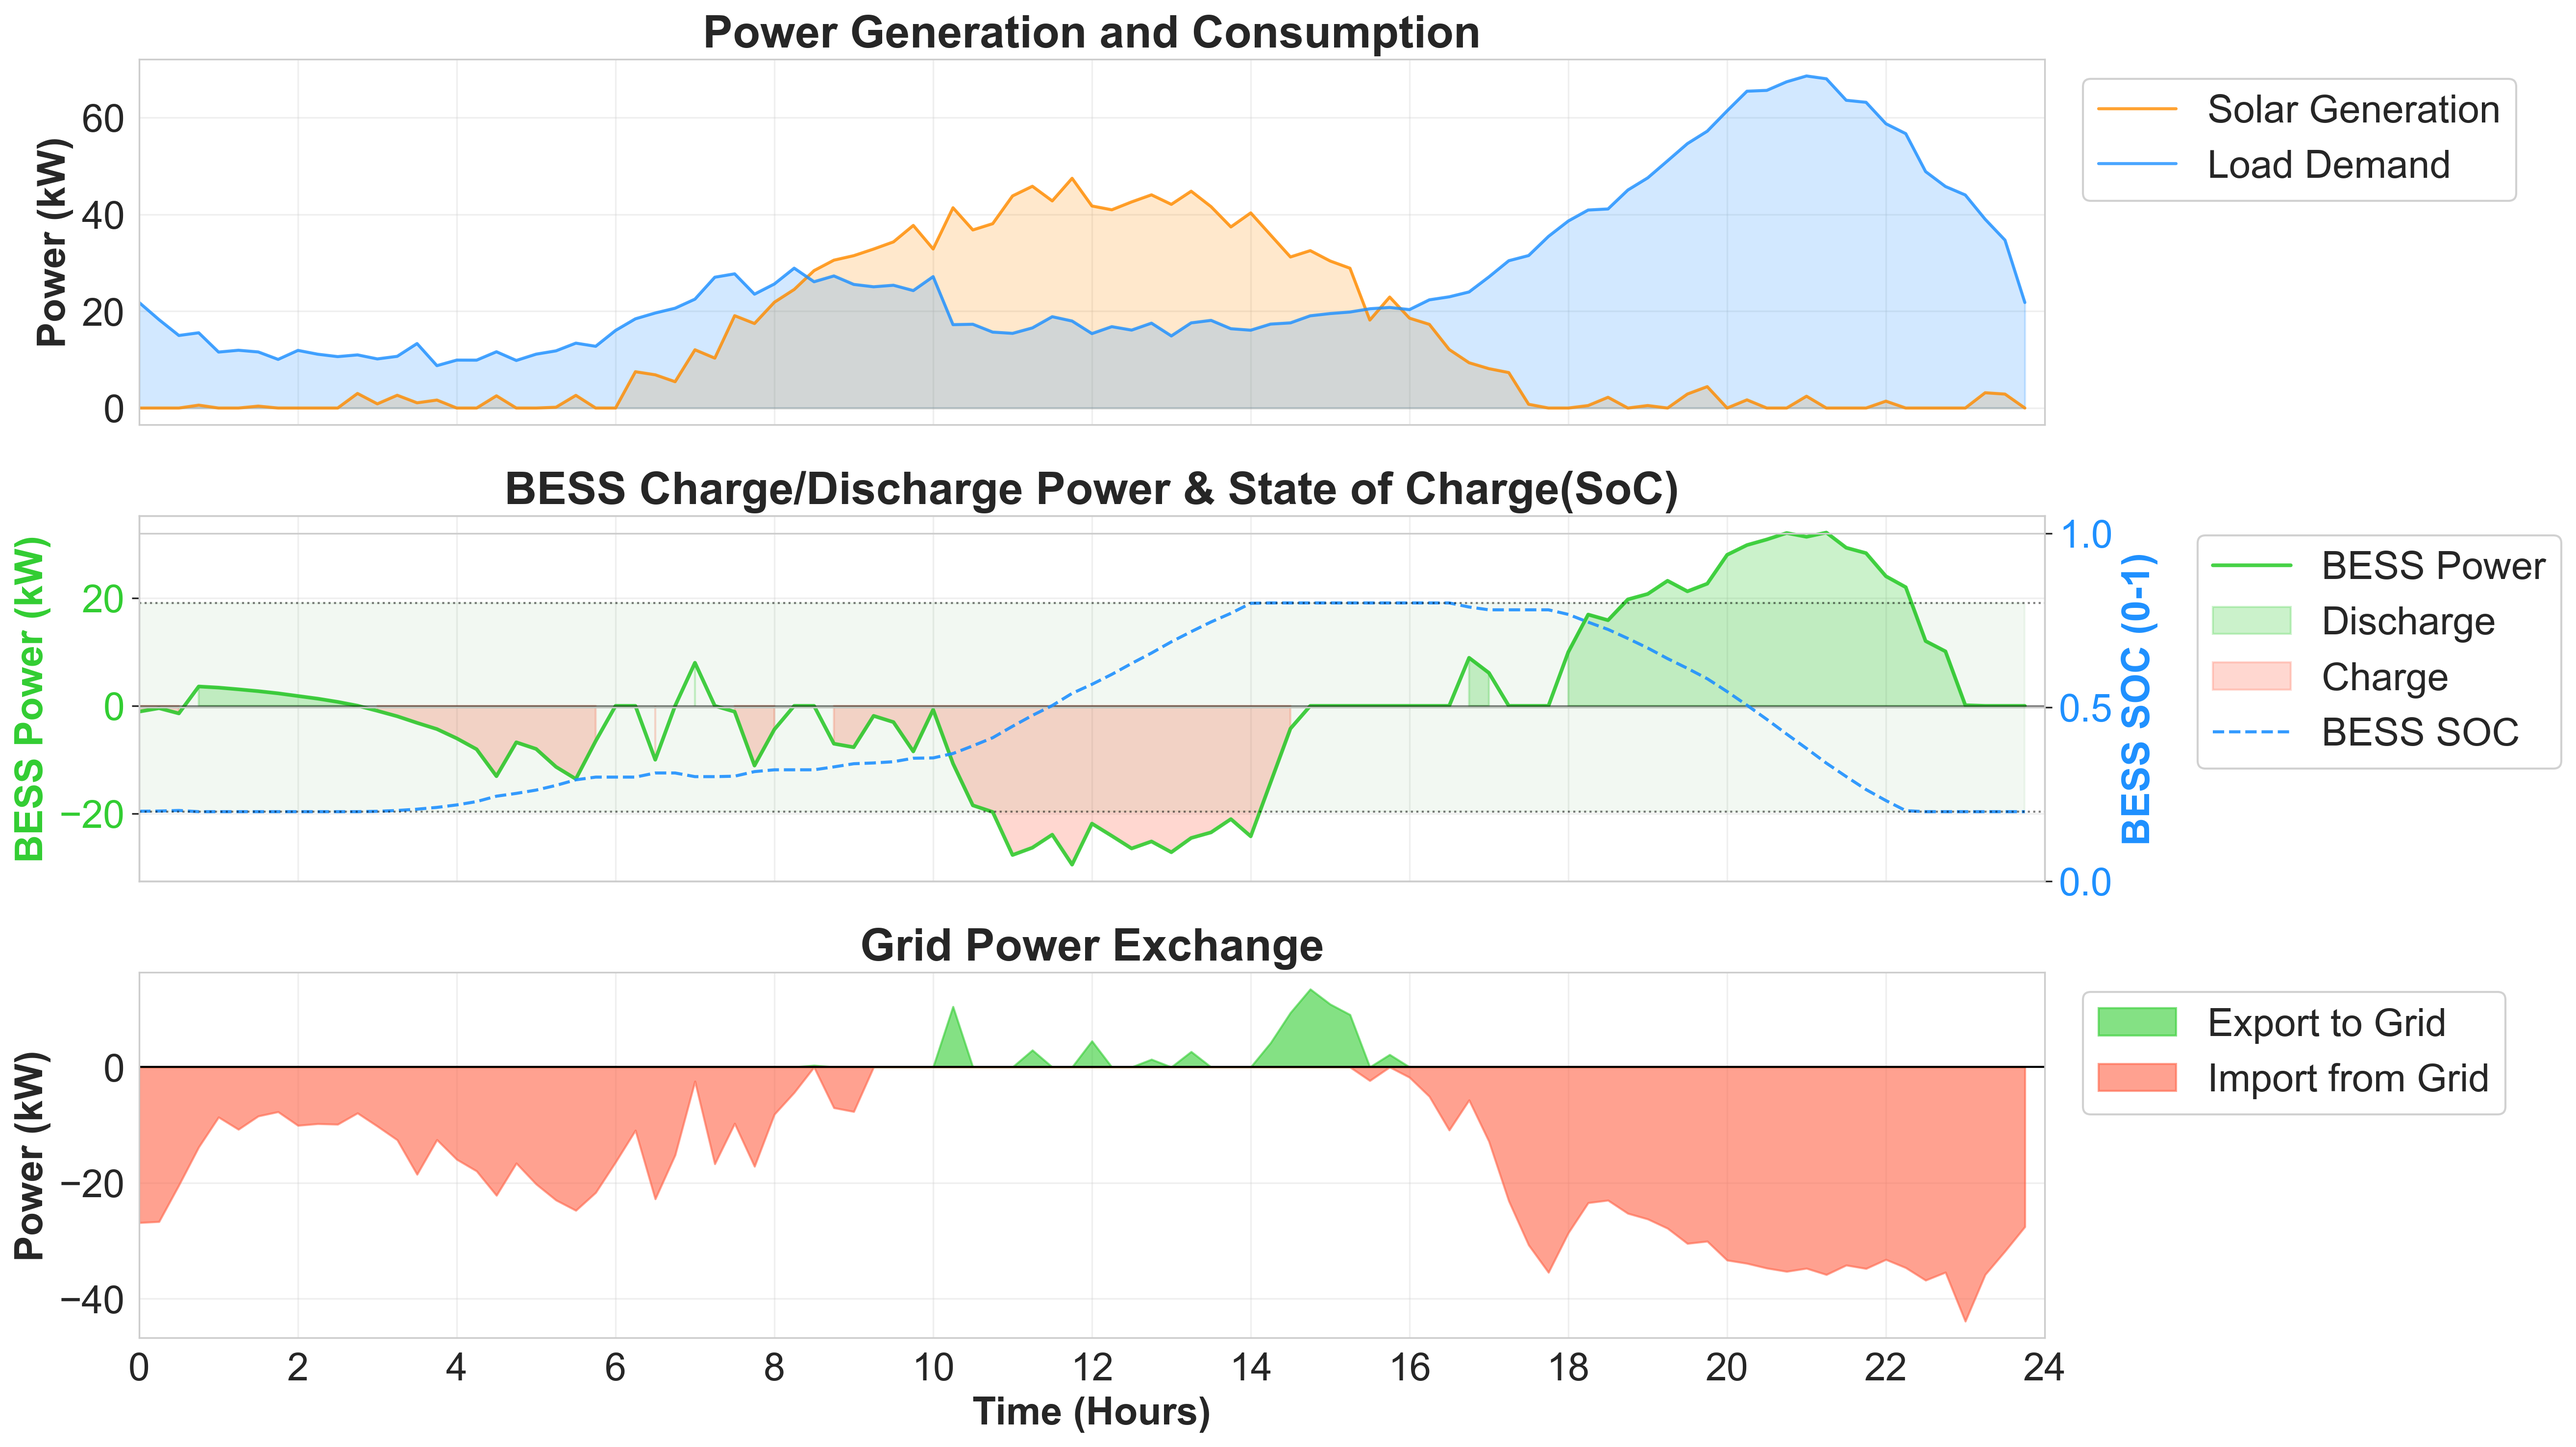
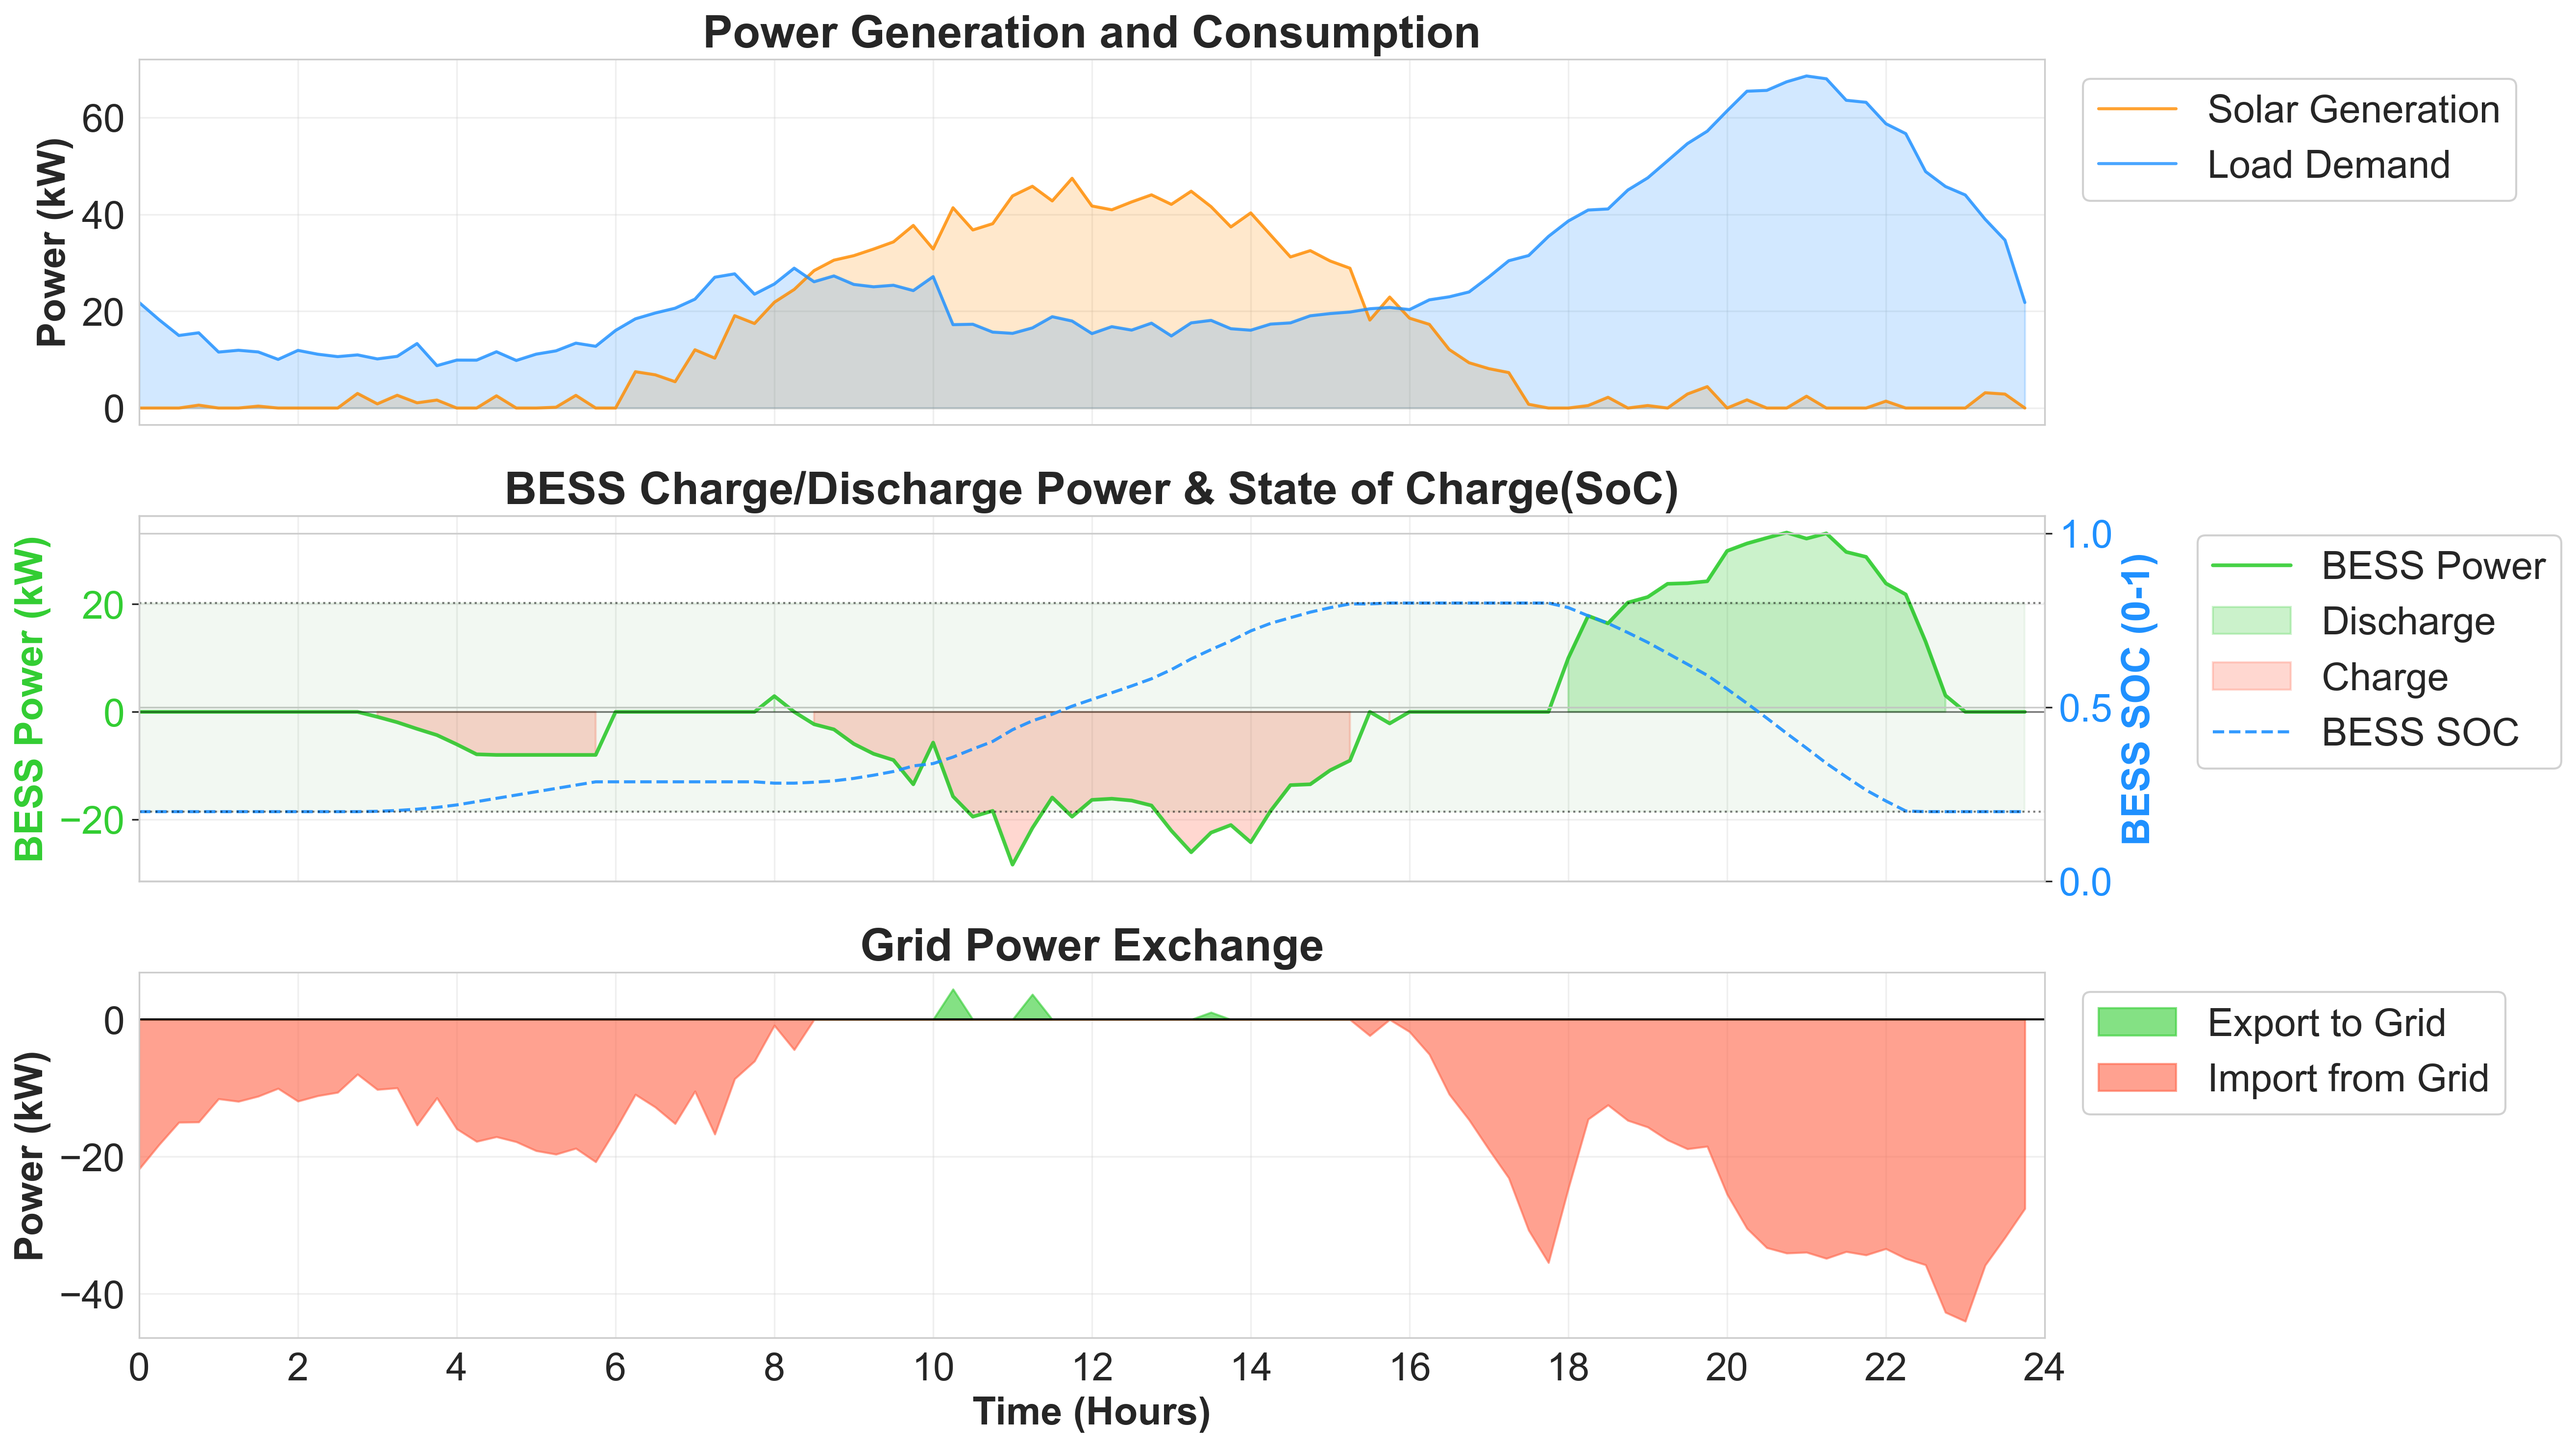
good

diff --git a/RL_agent/vpp_env.py b/RL_agent/vpp_env.py
@@ -97,6 +97,11 @@ class UrbanVPPEnv(gym.Env):
 
     # =================================================================
 
+    # SoC floor/ceiling are stored as float32; comparing a float32 value
+    # against a bare float64 literal (e.g. "<= 0.2") can silently fail to
+    # trigger due to rounding. This tolerance absorbs that gap.
+    SOC_EPS = 1e-4
+
     def __init__(self, data_path="./data", scenario_name=None, start_index=None, verbose=False):
         super(UrbanVPPEnv, self).__init__()
 
@@ -290,7 +295,9 @@ class UrbanVPPEnv(gym.Env):
         return min(p_max, headroom_kwh / (0.25 * 0.95))
 
     def _max_discharge_power_from_soc(self, soc, cap, p_max):
-        if soc <= 0.2:
+        # soc is stored as float32; float32(0.2) is fractionally above the
+        # float64 literal 0.2, so a bare "<= 0.2"/"- 0.2" never floors out.
+        if soc <= 0.2 + self.SOC_EPS:
             return 0.0
         deliverable_kwh = (soc - 0.2) * cap * 0.95
         return min(p_max, deliverable_kwh / 0.25)
@@ -361,6 +368,14 @@ class UrbanVPPEnv(gym.Env):
             target = shaped_discharge / self.bess_power if self.bess_power > 0 else 0.0
             # SOFT: blend toward shaped target
             action_modified[bess_action_idx] = 0.7 * target + 0.3 * action[bess_action_idx]
+
+        # --- Home batteries: peak-hour discharge guidance (soft) ---
+        if 18 <= hour < 23 and net_demand > 0:
+            for hb_idx in range(len(self.home_batt_indices)):
+                if self.soc[hb_idx] > 0.2 + self.SOC_EPS:
+                    demand_share = min(1.0, net_demand / (len(self.home_batt_indices) * self.home_batt_power))
+                    target = demand_share
+                    action_modified[hb_idx] = 0.7 * target + 0.3 * action[hb_idx]
 
         # --- Home batteries: daytime solar charging guidance (soft) ---
         if 6 <= hour < 18 and net_solar_surplus > 0:
@@ -457,7 +472,12 @@ class UrbanVPPEnv(gym.Env):
             # -- Hard physical constraints (these stay hard) --
 
             # CONSTRAINT 1: SoC limits
-            if self.soc[i] <= 0.2 and desired_power > 0:
+            # NOTE: self.soc is float32, and float32(0.2) is fractionally
+            # above the float64 literal 0.2, so a bare "<= 0.2" never
+            # triggers at the floor — the battery could discharge forever
+            # while SoC reads as pinned at 0.2 (np.clip resets it every
+            # step). Use an epsilon tolerance so the floor actually holds.
+            if self.soc[i] <= 0.2 + self.SOC_EPS and desired_power > 0:
                 desired_power = 0.0
             if self.soc[i] >= 0.8 and desired_power < 0:
                 desired_power = 0.0
@@ -466,8 +486,8 @@ class UrbanVPPEnv(gym.Env):
             # BESS must be idle during this period — no charging or discharging
             if is_bess and 23 <= hour:
                 desired_power = 0.0
-            # Home batteries: still block charging only
-            elif not is_bess and 23 <= hour and desired_power < 0:
+            # Home batteries: block both charging and discharging after 11pm
+            elif not is_bess and 23 <= hour:
                 desired_power = 0.0
 
             # CONSTRAINT 3: Block ALL charging during peak (6pm–11pm)

diff --git a/RL_agent/train.py b/RL_agent/train.py
@@ -39,7 +39,7 @@ def main():
 
     # Set to a scenario name (e.g., "cloudy_day") to train on that specific scenario.
     # Set to None to use the default 'load_forecast.csv' and 'solar_forecast_formatted.csv'
-    scenario_name = "low_load_weekend"  # Change to any scenario above
+    scenario_name = "intermittent_solar"  # Change to any scenario above
 
 
     # Get script directory to ensure outputs save in RL_agent folder
